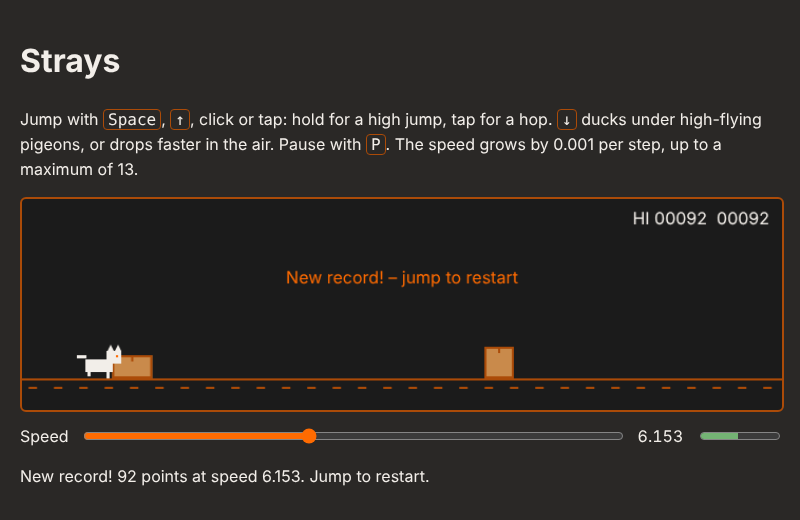
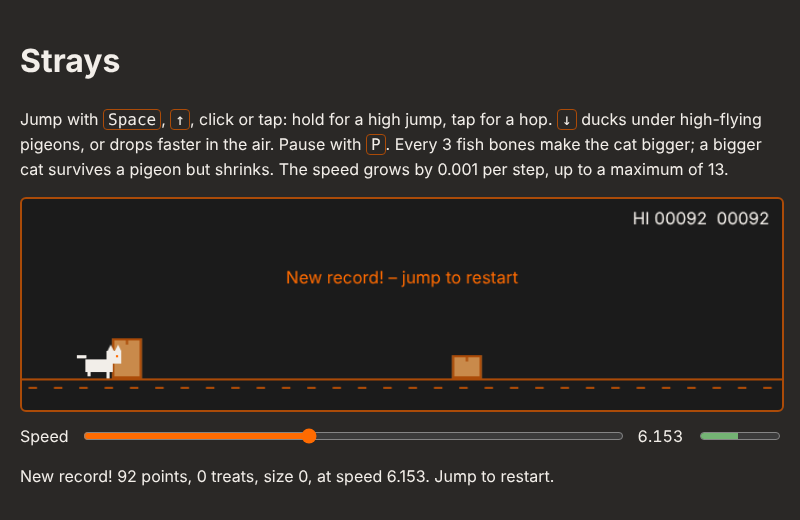
Check spec 09 in the test and mark it done
The scripted player now also checks the speed rule over whole runs
(fish and absorbed pigeons included) and that a restart resets treats
and size. A 5-minute run reached size 3 after 34 fish bones, stayed
inside the canvas (highest point 23 px) and survived 229 s at that size.

Claude-Session: https://claude.ai/code/session_01WwwZG2Szd8R3ngBsM1TLoc

diff --git a/specs/09-treats.md b/specs/09-treats.md
@@ -103,19 +103,28 @@ Two limits, both from the current playfield (200 px high, ground at y = 170):
 
 ## Acceptance criteria
 
-- [ ] `window.strays.treats` reports the count of this run and resets on restart.
-- [ ] `window.strays.size` reports 0 to 3 and resets on restart.
-- [ ] Collecting a treat adds exactly 50 to the score and leaves the speed unchanged
-      (compare speed growth in the step before and after).
-- [ ] The 3rd, 6th and 9th treat grow the cat; the 12th does not grow it beyond size 3.
-- [ ] At size 3, the top of the cat at the peak of a full jump is inside the canvas
-      (`window.strays.catTop` ≥ 0).
-- [ ] At size 3, a ducking cat passes under a high pigeon.
-- [ ] A pigeon hit at size ≥ 1 shrinks the cat by one size, the phase stays `running`, and the
+Checked with the scripted player in `test/test-game.mjs`; the long numbers come from one run with
+`BOT_SECONDS=300`.
+
+- [x] `window.strays.treats` reports the count of this run and resets on restart.
+- [x] `window.strays.size` reports 0 to 3 and resets on restart.
+- [ ] Collecting a treat adds exactly 50 to the score. Not measured in the test, only read in the
+      code (`state.score += FISH.points`).
+- [x] Collecting a treat leaves the speed unchanged: over a whole run with treats and an absorbed
+      pigeon, the speed equals start + 0.001 × steps exactly (`speedRuleOk`).
+- [x] Every 3 treats grow the cat, and it never grows beyond size 3 (long run: 34 treats, size 3).
+- [x] At size 3, the top of the cat at the peak of a full jump is inside the canvas
+      (`window.strays.catTop` ≥ 0; highest point measured: 23 px, as calculated).
+- [x] At size 3, a ducking cat passes under a high pigeon (long run: ducks at size 3, no crash).
+- [x] A pigeon hit at size ≥ 1 shrinks the cat by one size, the phase stays `running`, and the
       speed grows in that step as usual.
-- [ ] A pigeon hit at size 0, or a box hit at any size, ends the run.
-- [ ] No treat overlaps an obstacle (checked over 1000 spawns in a seeded run).
-- [ ] The scripted player from 08 survives 60 s at speed 13 at size 3.
+- [x] A pigeon hit at size 0 ends the run.
+- [ ] A box hit at size ≥ 1 ends the run. Not tested separately; boxes take the same path as
+      before 09, since only pigeons can be absorbed.
+- [x] No treat overlaps an obstacle: checked in every frame of the scripted runs (0 overlaps)
+      instead of 1000 seeded spawns, since the game has no seed yet. By construction a treat sits
+      in the middle of a gap of at least 60 steps.
+- [x] The scripted player from 08 survives 60 s at speed 13 at size 3 (long run: 229 s at size 3).
 
 ## Out of scope
 

diff --git a/README.md b/README.md
@@ -43,7 +43,7 @@ The game also pauses by itself when you switch tabs.
 `test/test-game.mjs` checks the behaviour with Playwright (increase per second, freeze on
 collision, restart at 6, cap at 13, high score kept across a reload and without storage, no speed growth while paused,
 hop lower than a held jump, faster landing with arrow down, a scripted player surviving all obstacle
-types at speed 13) and saves screenshots. `BOT_SECONDS` sets that run's length (default 60):
+types at speed 13, growing from fish bones and shrinking from pigeons) and saves screenshots. `BOT_SECONDS` sets that run's length (default 60):
 
 ```bash
 npm i playwright-core

diff --git a/specs/README.md b/specs/README.md
@@ -44,7 +44,7 @@ bridge for the borrowed rule; everything in this folder is an original design.
 | 06 | [High score](06-highscore.md) | Gameplay | done |
 | 07 | [Jump control](07-jump-control.md) | Gameplay | done |
 | 08 | [More obstacles](08-obstacles.md) | Gameplay | done |
-| 09 | [Treats and growing](09-treats.md) | Gameplay | planned |
+| 09 | [Treats and growing](09-treats.md) | Gameplay | done |
 
 ## Recommended order
 
